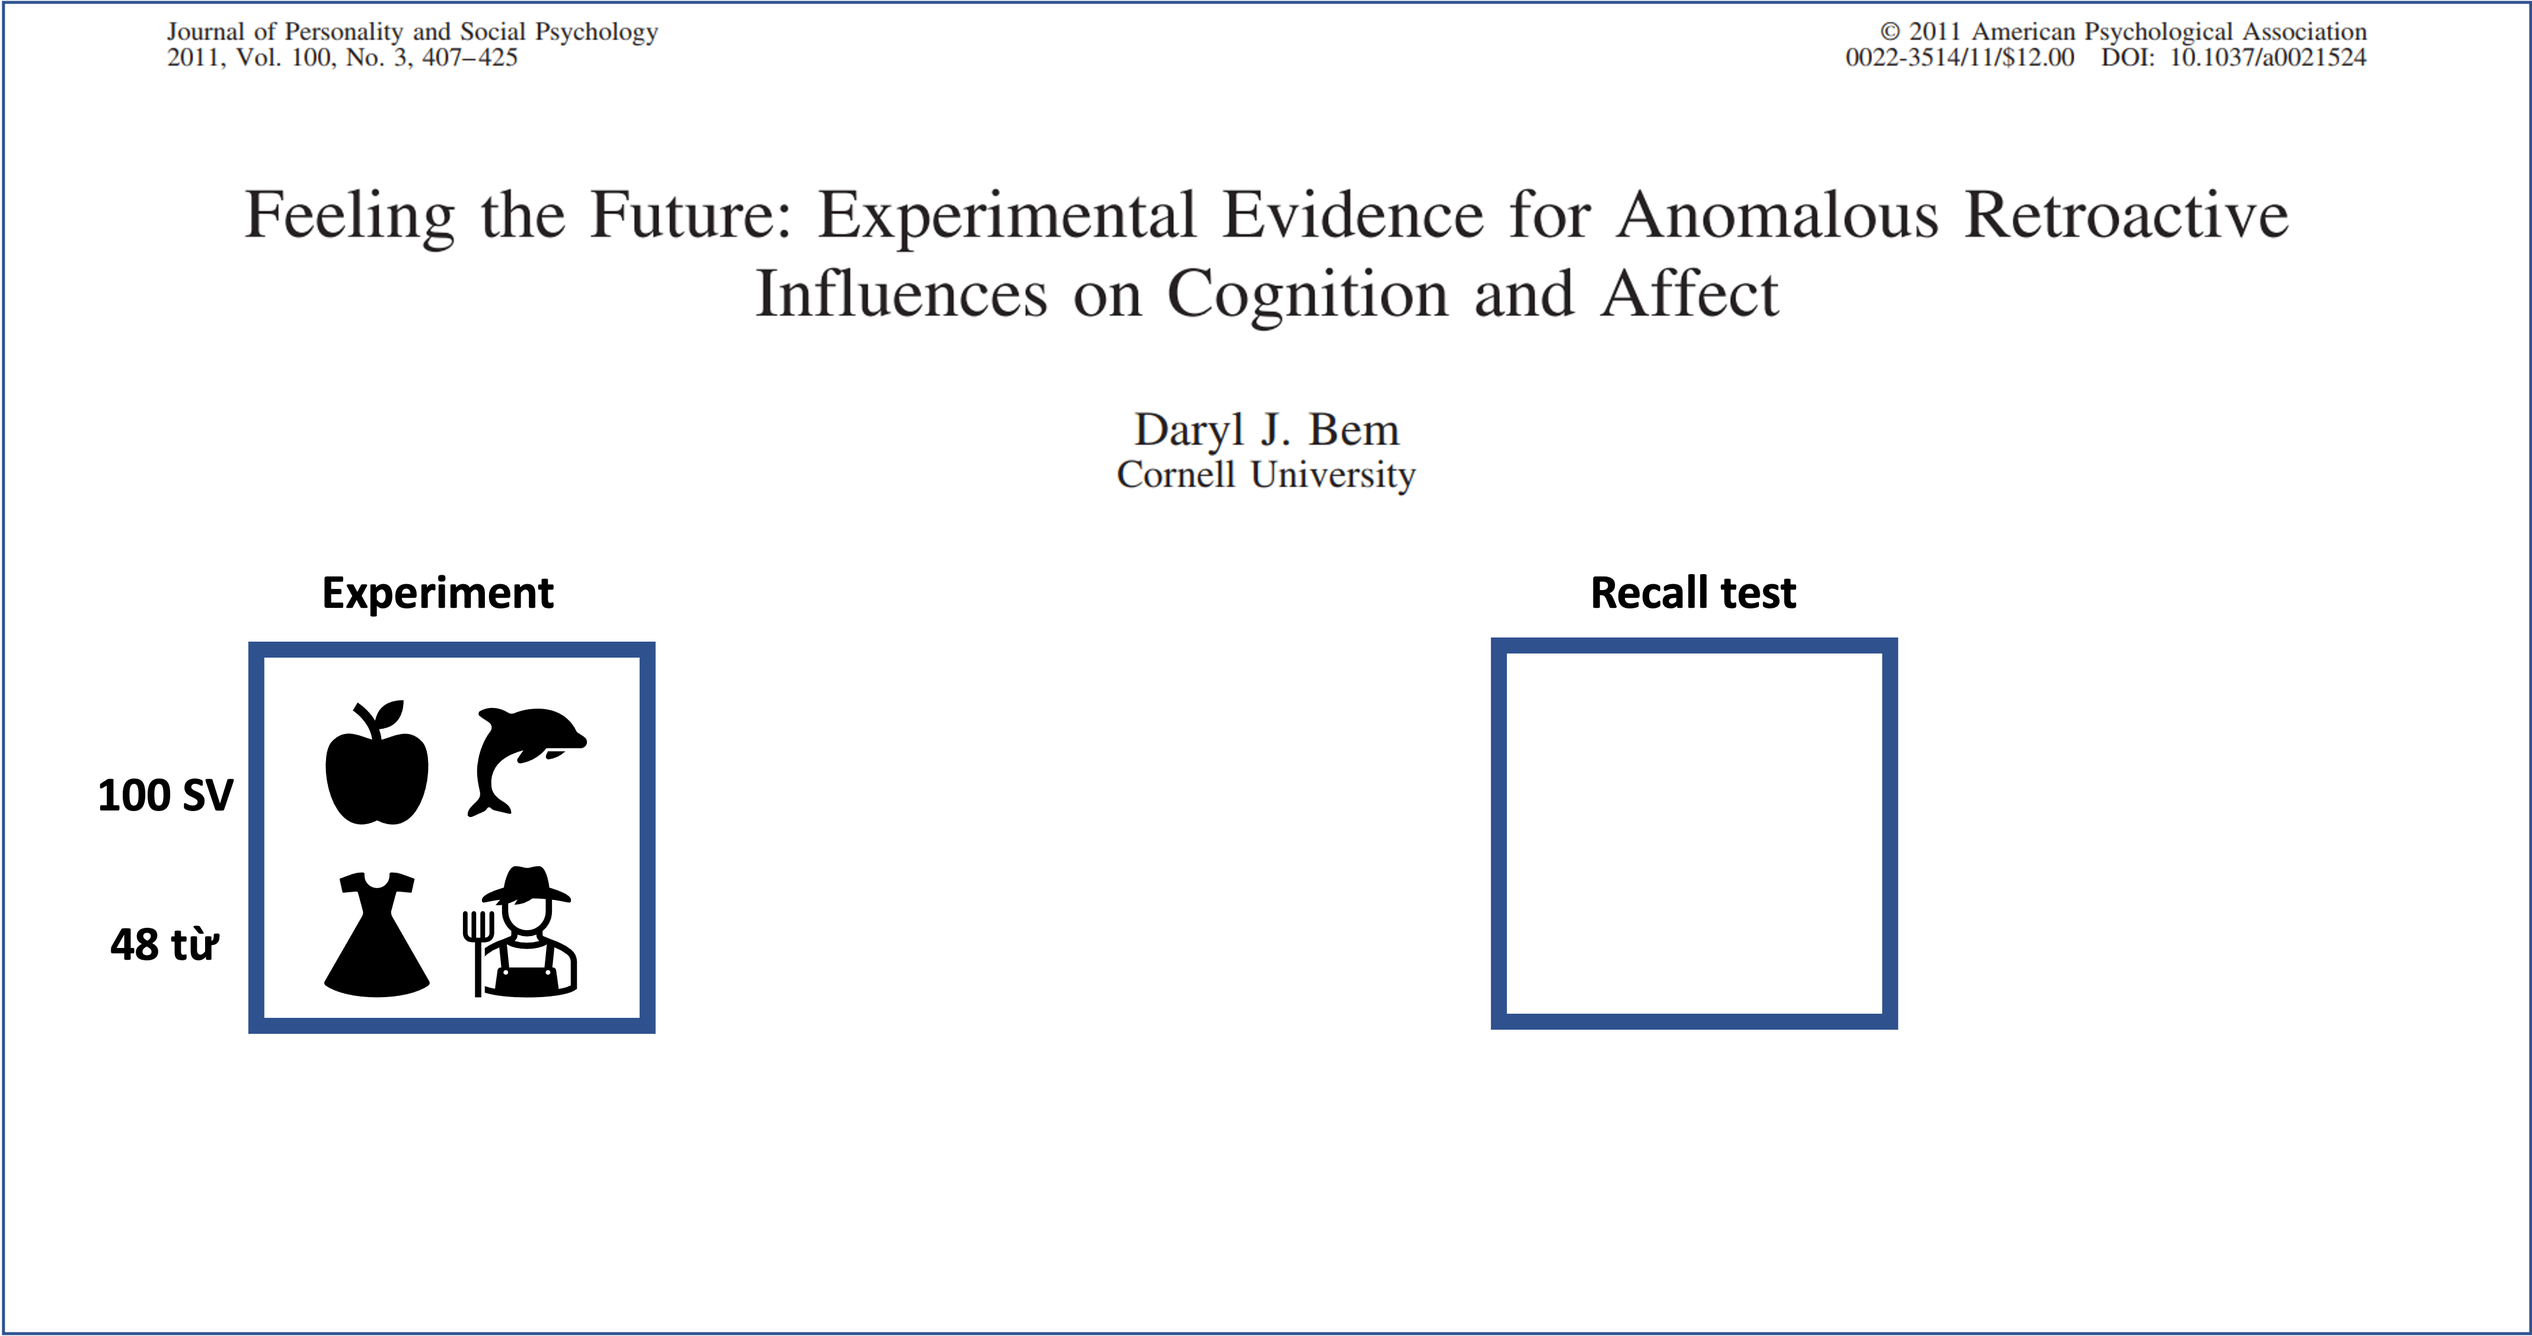
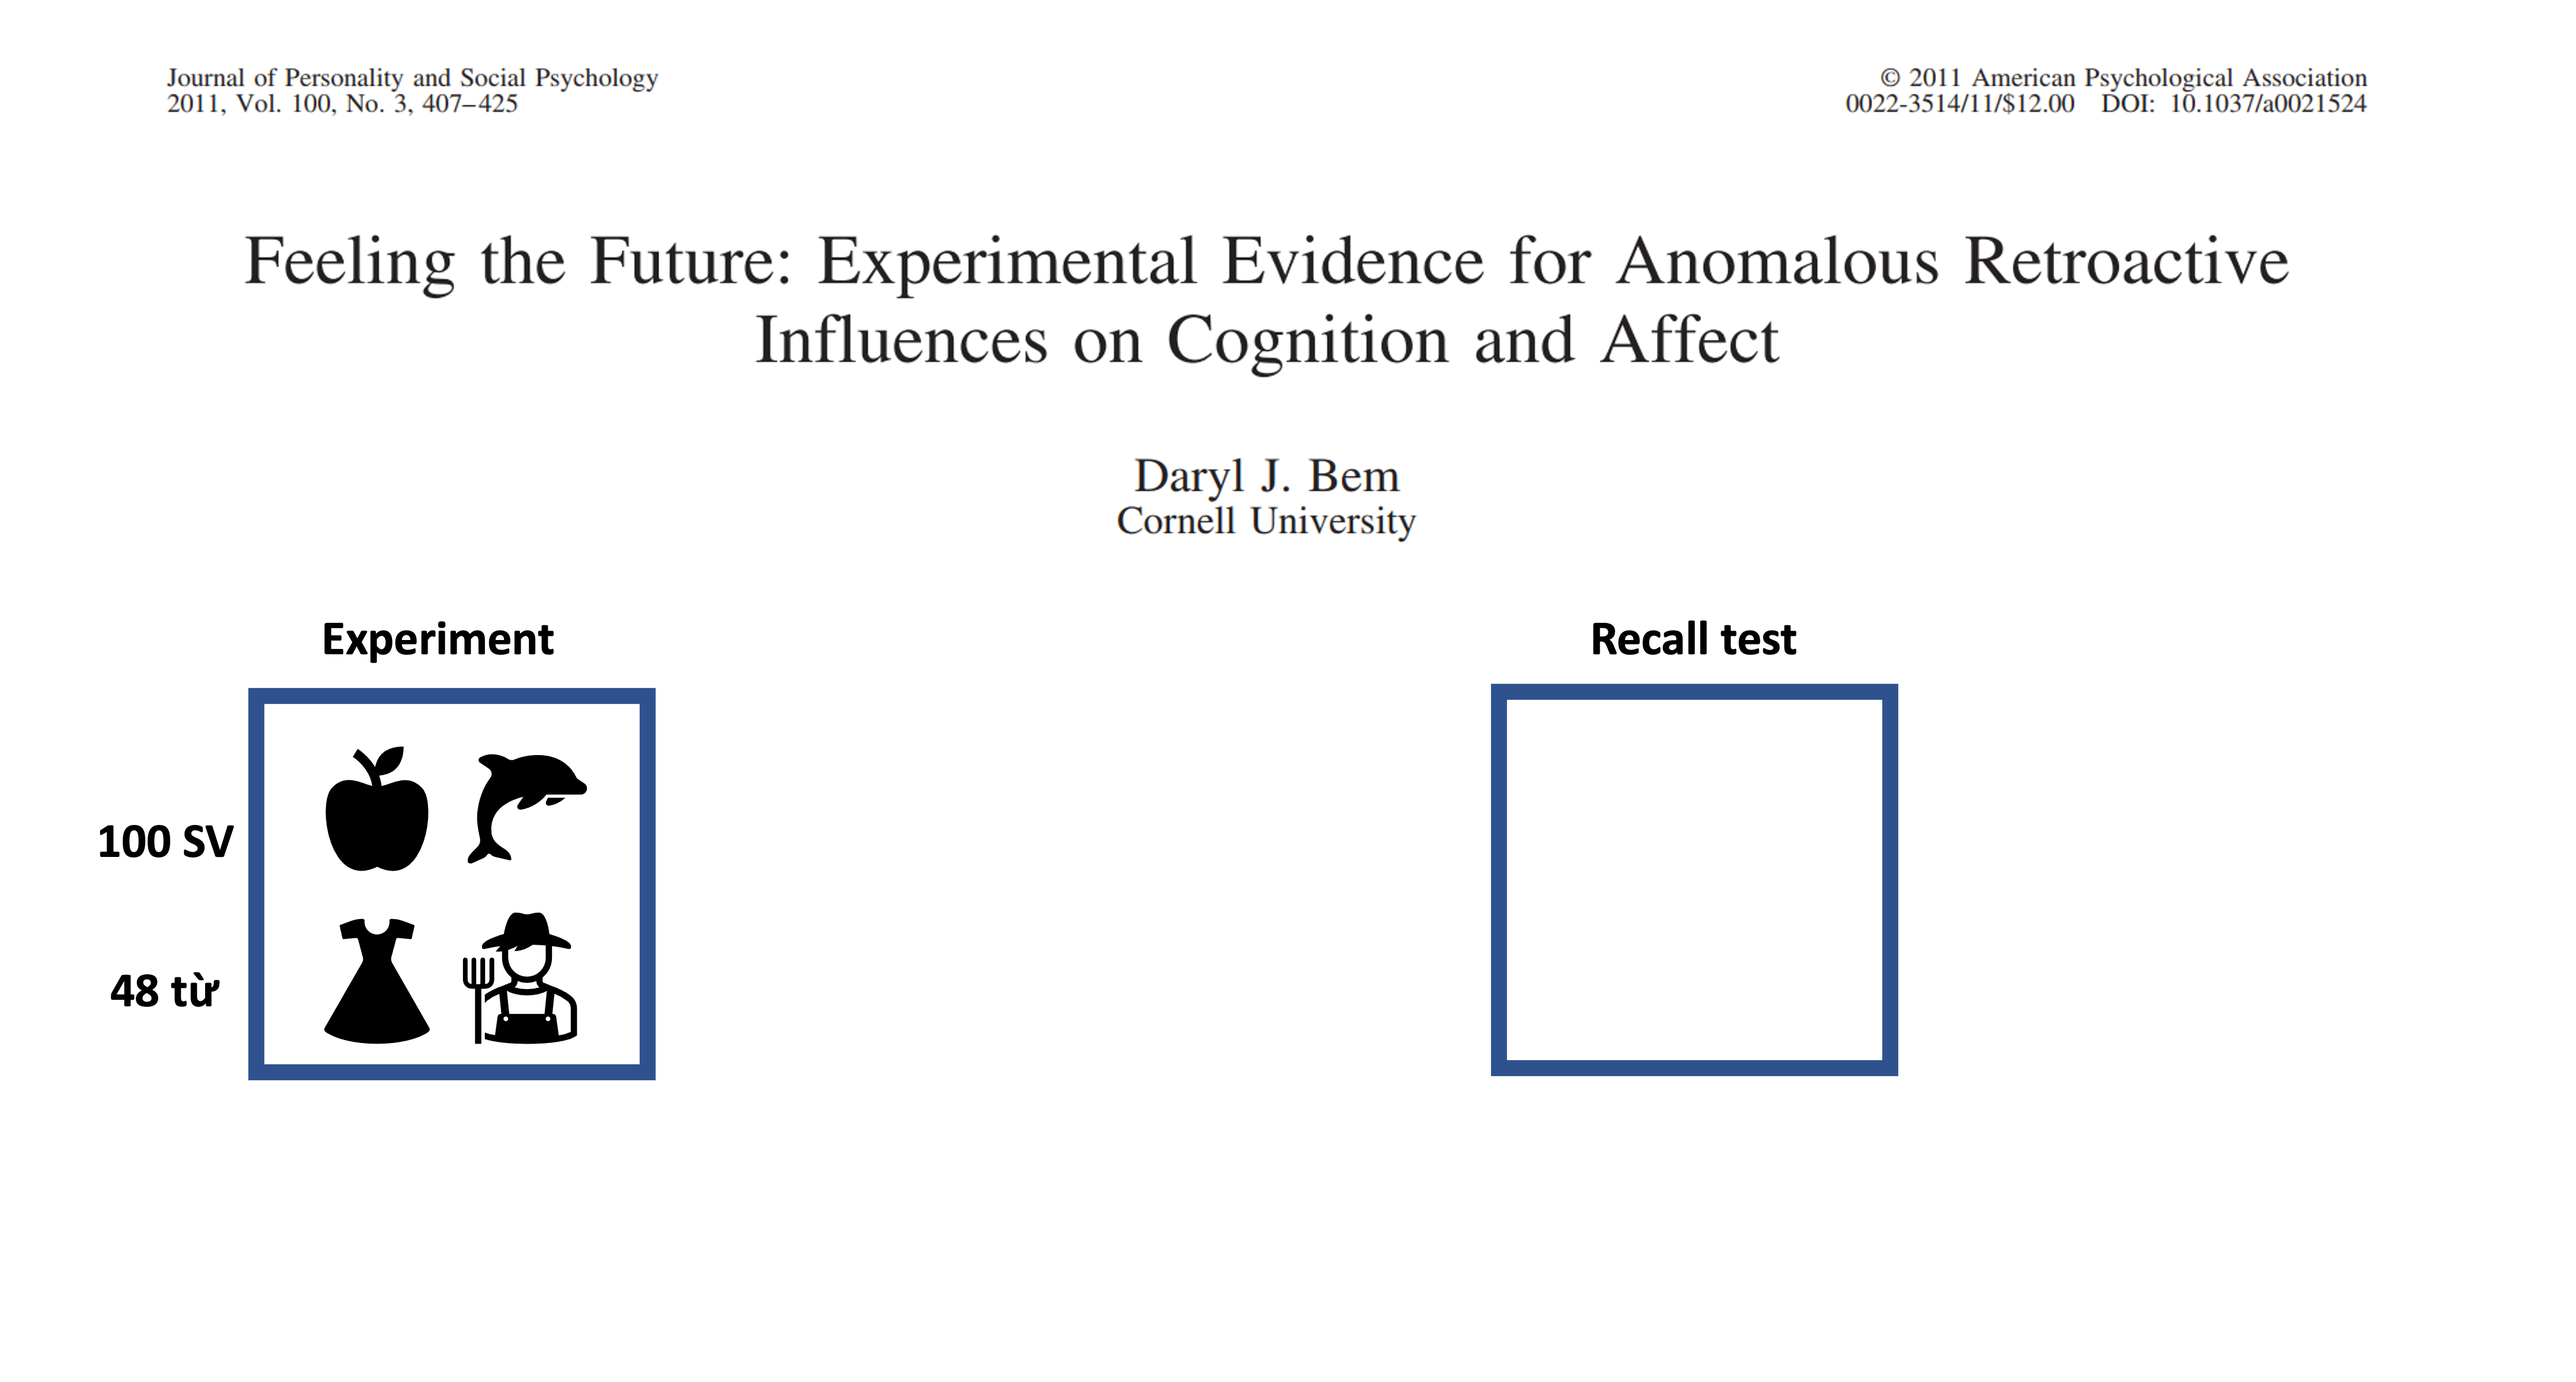
update slide TQYV

diff --git a/docs/slides/Slide_DTHBKL_TQYV_20211230.html b/docs/slides/Slide_DTHBKL_TQYV_20211230.html
@@ -147,7 +147,7 @@ Ritchie, S. J., Wiseman, R., &amp; French, C. C. (2012). PLOS ONE, 7(3), e33423.
 Open Science Collaboration (2015). Science. https://doi.org/10.1126/science.aac4716 
 ]
 
-![:imgabs 80%, 5%, 20%](figures/TQYV_007.png)
+![:imgabs 60%, 15%, 20%](figures/TQYV_007.png)
 
 
 ---
